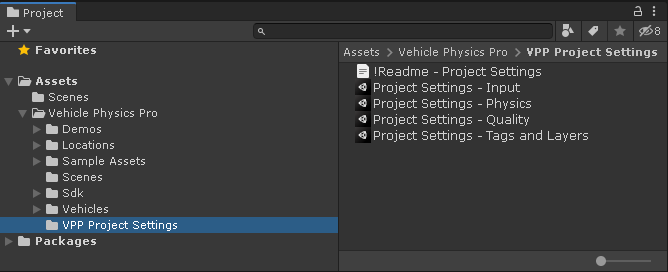
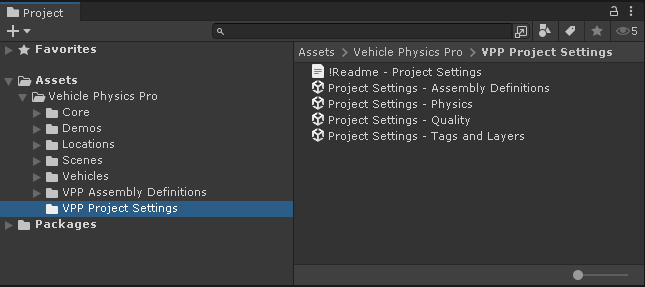
Setting Up VPP updated

diff --git a/docs/user-guide/setting-up-vpp.md b/docs/user-guide/setting-up-vpp.md
@@ -11,23 +11,28 @@ When upgrading VPP, check the [Changelog](/about/changelog) for Release Notes an
 
 If switching between VPP editions (i.e. from Professional to Enterprise), then check out [Switch Between VPP Editions](https://vehiclephysics.com/advanced/switch-between-vpp-editions/).
 
-### Supported Unity versions
+### Requirements
 
-- **LTS releases** in 20XX versions (from Unity 2019 LTS)
-- **Stable LTS releases** in generational versions (Unity 6.3+, 7.3+, ...)
+- **Minimum supported Unity version:** Unity 2021 LTS  
+- **Physics for Game Objects:** Simulation Mode set to *FixedUpdate*<br/>(Auto Simulation = *true* on Unity 2021)
 
-Vehicle Physics Pro may work in other Unity versions, but we can only provide official support on these versions.
+**Recommended Unity versions:**
+
+- **LTS releases** in 20XX versions.
+- **Stable LTS releases** in generational versions (e.g., Unity 6.3+, 7.3+, …).
+
+Vehicle Physics Pro may work in other Unity versions, but official support might not be guaranteed for non-stable Unity releases.
 
 ### Download and import VPP unitypackage
 
 1. Download the .unitypackage file. Professional and Enterprise editions require an active [VPP subscription](/about/licensing/).
 
 	- **[Community Edition](https://assetstore.unity.com/packages/tools/physics/vehicle-physics-pro-community-edition-153556)**
-	{: .spacer }
+	<!-- {: .spacer } -->
 	- **[Professional Edition](https://vehiclephysics.repositoryhosting.com/webdav/vehiclephysics_vehicle-physics-pro-professional/)**
-	{: .spacer }
+	<!-- {: .spacer } -->
 	- **[Enterprise Edition](https://vehiclephysics.repositoryhosting.com/webdav/vehiclephysics_vehicle-physics-pro/)**
-	{: .spacer }
+	<!-- {: .spacer } -->
 
 2. Import the package into an Unity 3D project.
 
@@ -48,11 +53,6 @@ individually to configure specific project sections.
 	Each file overrides the project’s settings in the corresponding section. Ensure to have a backup
 	or note down your values for combining them with the VPP settings.
 
-Project Settings - Input
-:	_Required_ for the keyboard input to work correctly (i.e. switch gears in the included demos).
-	Alternatively, you could manually configure the input axes <kbd>Horizontal</kbd>, <kbd>Vertical</kbd>,
-	<kbd>Fire2</kbd> and <kbd>Fire3</kbd> [as described here](/components/vehicle-input/#vpstandardinput).
-
 Project Settings - Physics
 :	Physics settings used in VPP. Note that importing this file overrides your project’s Layer
 	Collision Matrix. You may restore your own collision matrix afterwards (VPP doesn't require
@@ -70,6 +70,12 @@ Project Settings - Tags And Layers
 :	VPP demos and examples use <kbd>User Layer 8</kbd> as **Vehicles** for visibility and reflection
 	probes.	Note that this Vehicles layer is _not_ a requirement of VPP. Only the demos and examples
 	use it.
+
+Project Settings - Assembly Definitions
+:	Assembly Definitions to compile Vehicle Physics Pro into its own assemblies. You can then
+	reference "VehiclePhysicsPro" to use VPP from your assemblies.
+
+	If this package is not imported (default) then VPP is compiled into the main Unity assemblies.
 
 &fa-thumbs-up:lg; You can now head to the [Getting Started](/user-guide/getting-started/){: .alert-link }
 section for start using Vehicle Physics Pro.
